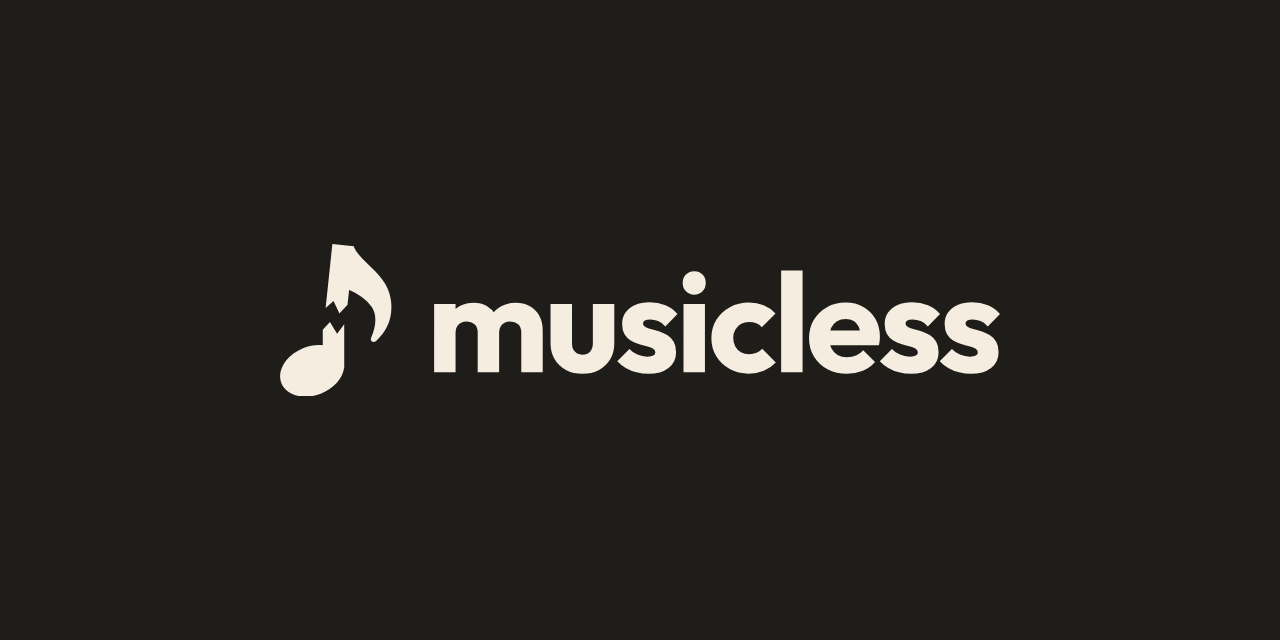
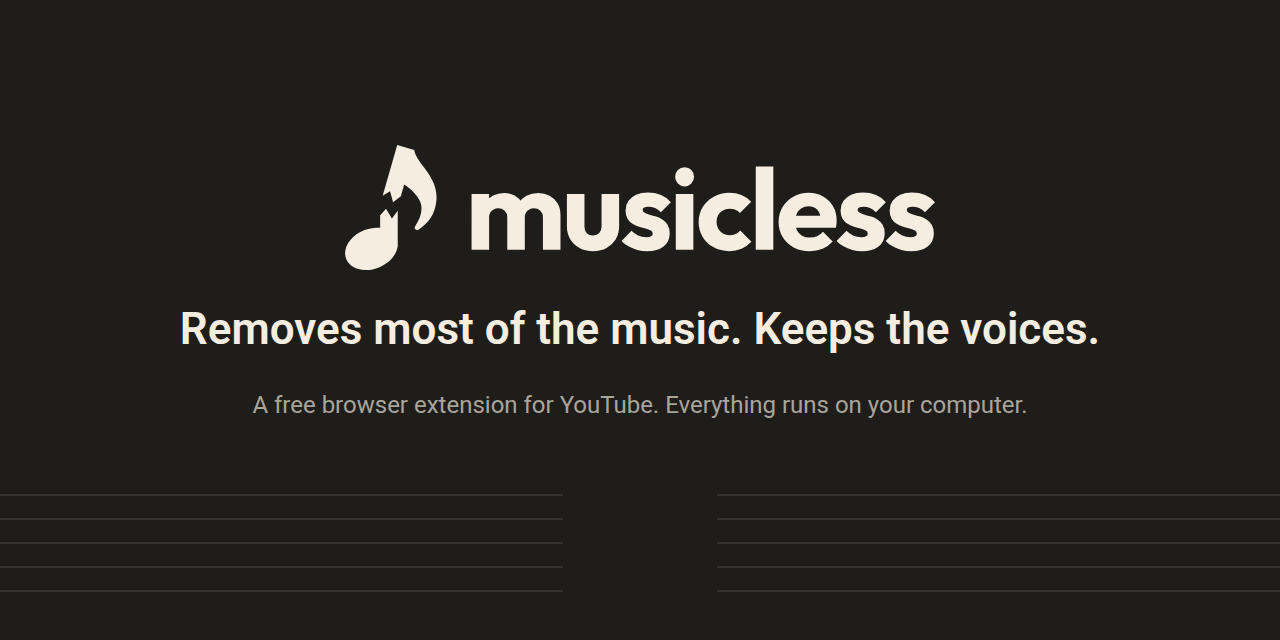
Adopt the selected gently tilted Musicless mark

Changed region(s): [[0.125, 0.2188, 0.875, 0.6562]]

diff --git a/docs/release.md b/docs/release.md
@@ -204,7 +204,7 @@ After `main` is the extension, and before you announce it:
 1. **Description.** "Removes the background music from YouTube videos and keeps the voices. A Chrome extension; everything runs on your computer."
 2. **Topics.** `browser-extension`, `chrome-extension`, `chromium`, `webextension`, `youtube`, `privacy`, `onnx`, `webassembly`.
 3. **Homepage.** Empty until the Chrome Web Store listing is live, then that listing URL.
-4. **Social preview.** Upload [store/github-social-1280x640.png](store/github-social-1280x640.png), the supplied 1280×640 Musicless image.
+4. **Social preview.** Upload [store/github-social-1280x640.png](store/github-social-1280x640.png), the supplied 1280×640 image with the logo, tagline, quieter product description and faint stave with a gap.
 5. **License.** Confirm the About box says MIT.
 6. **Private vulnerability reporting.** Turn it on. [SECURITY.md](../SECURITY.md) points at that form.
 7. **Dependabot.** Turn on alerts and security updates. `.github/dependabot.yml` covers Actions version updates only.
